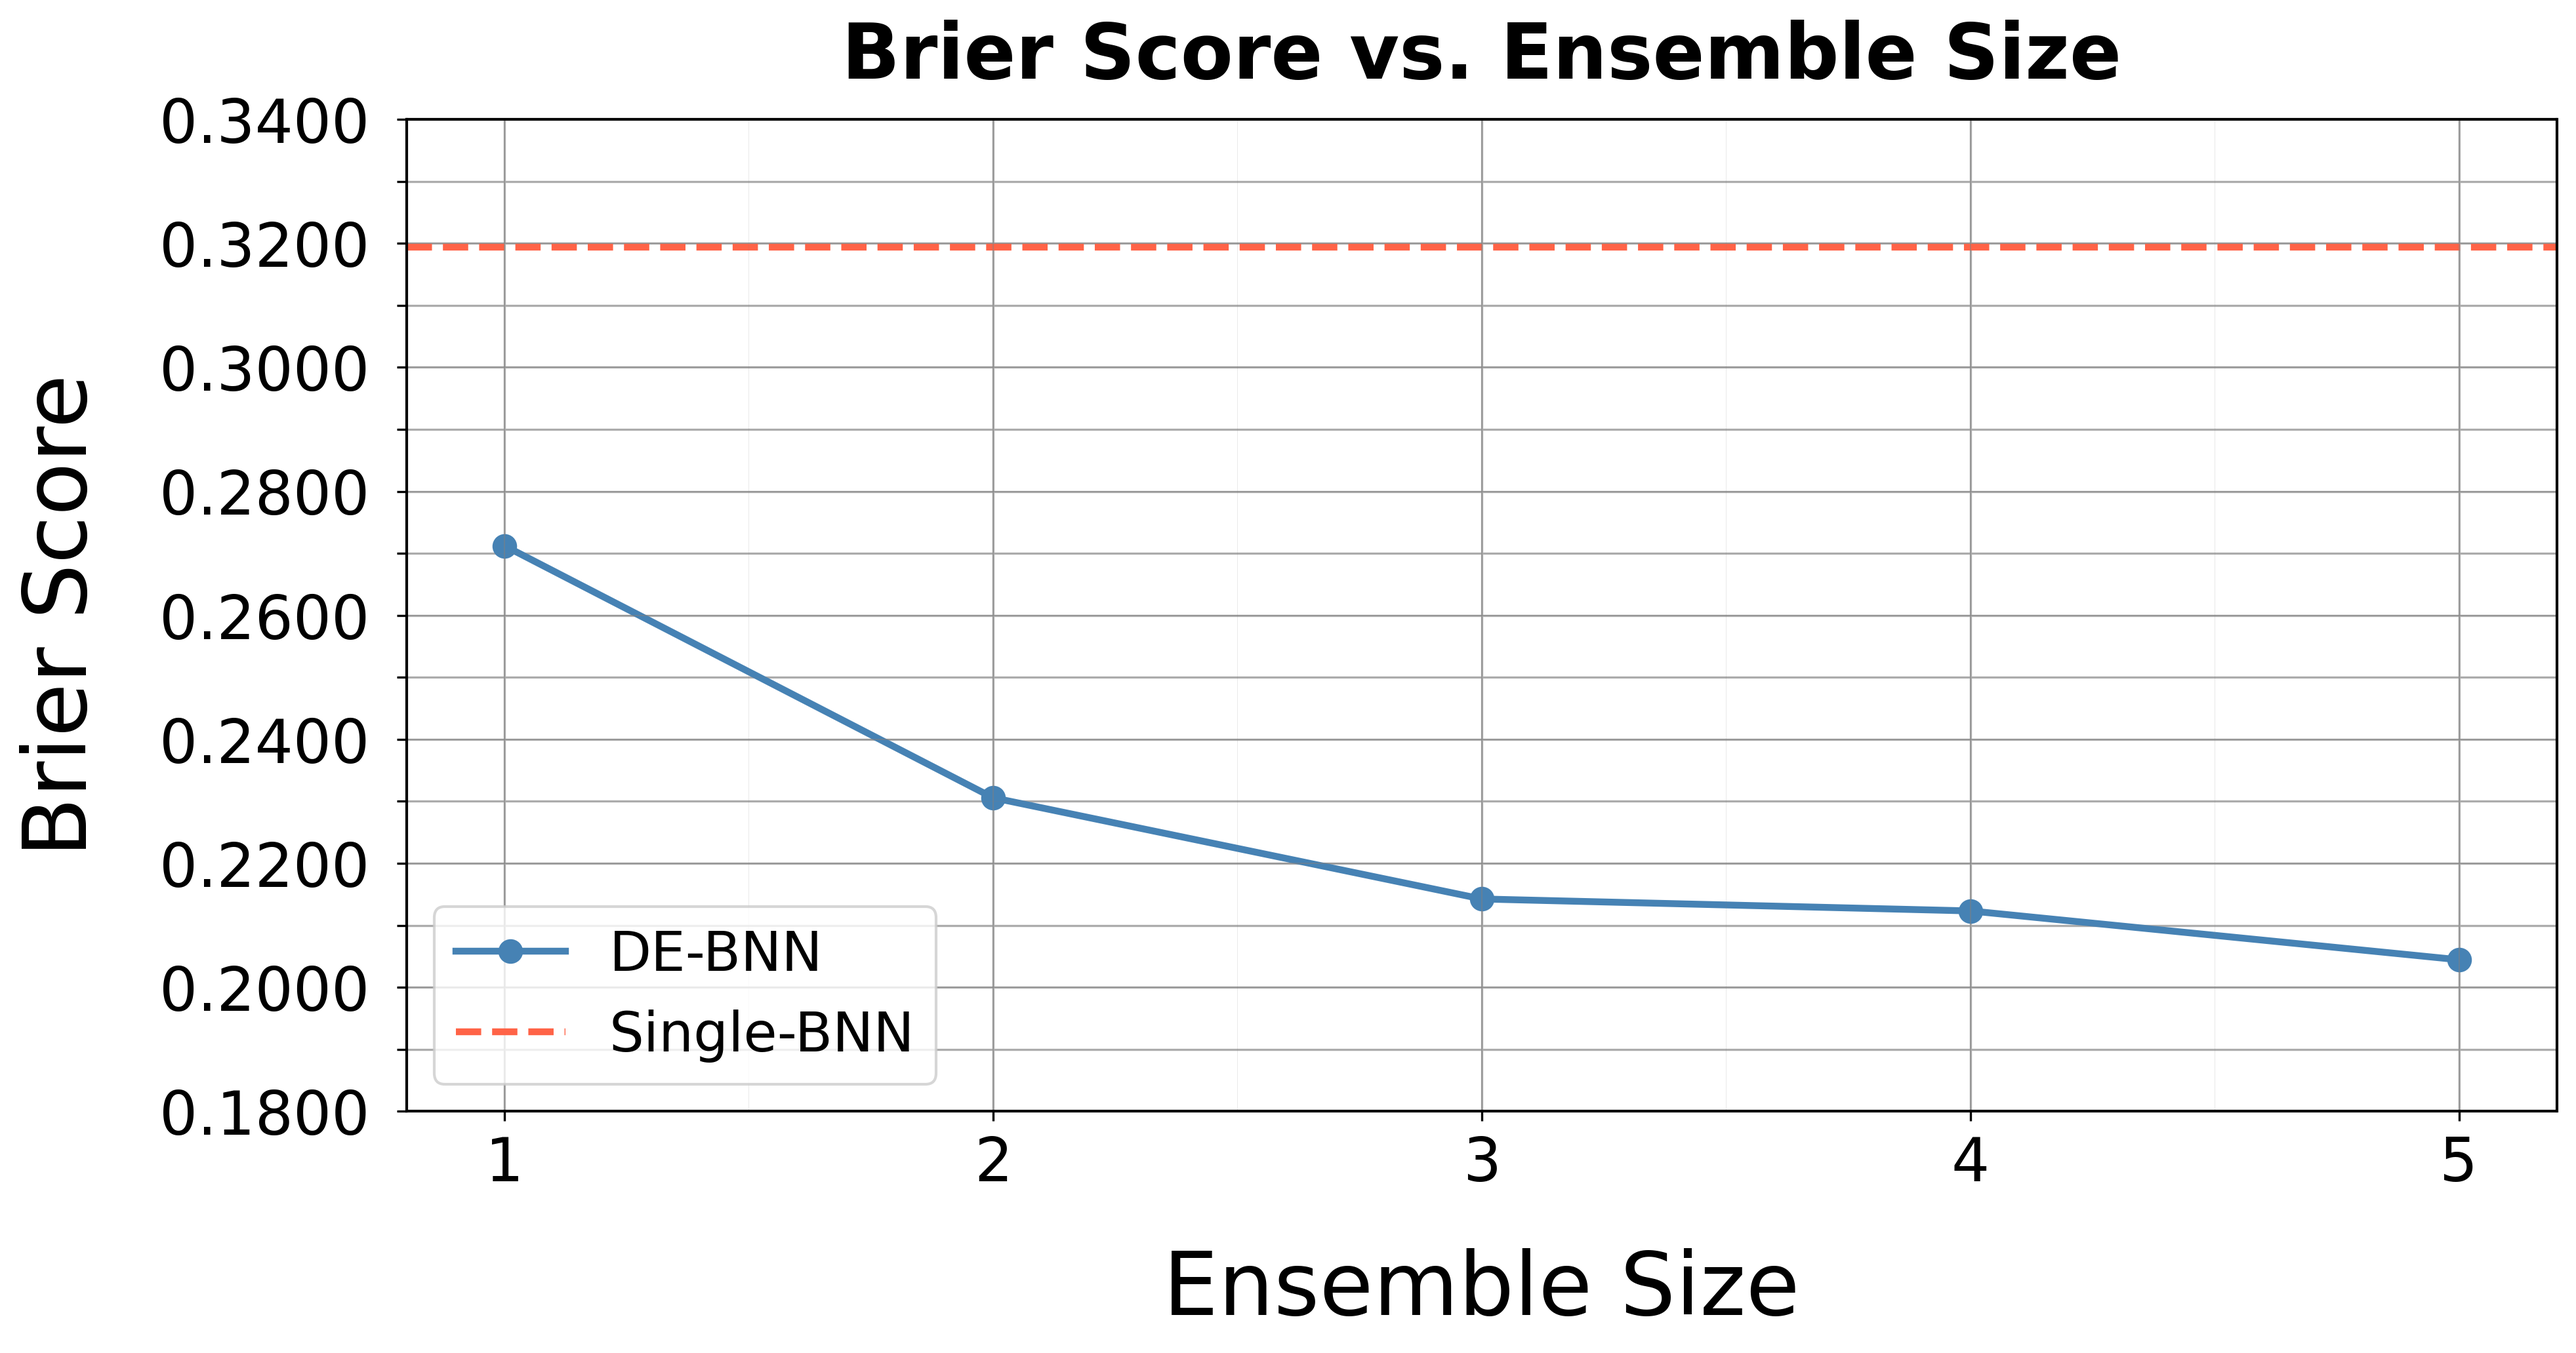
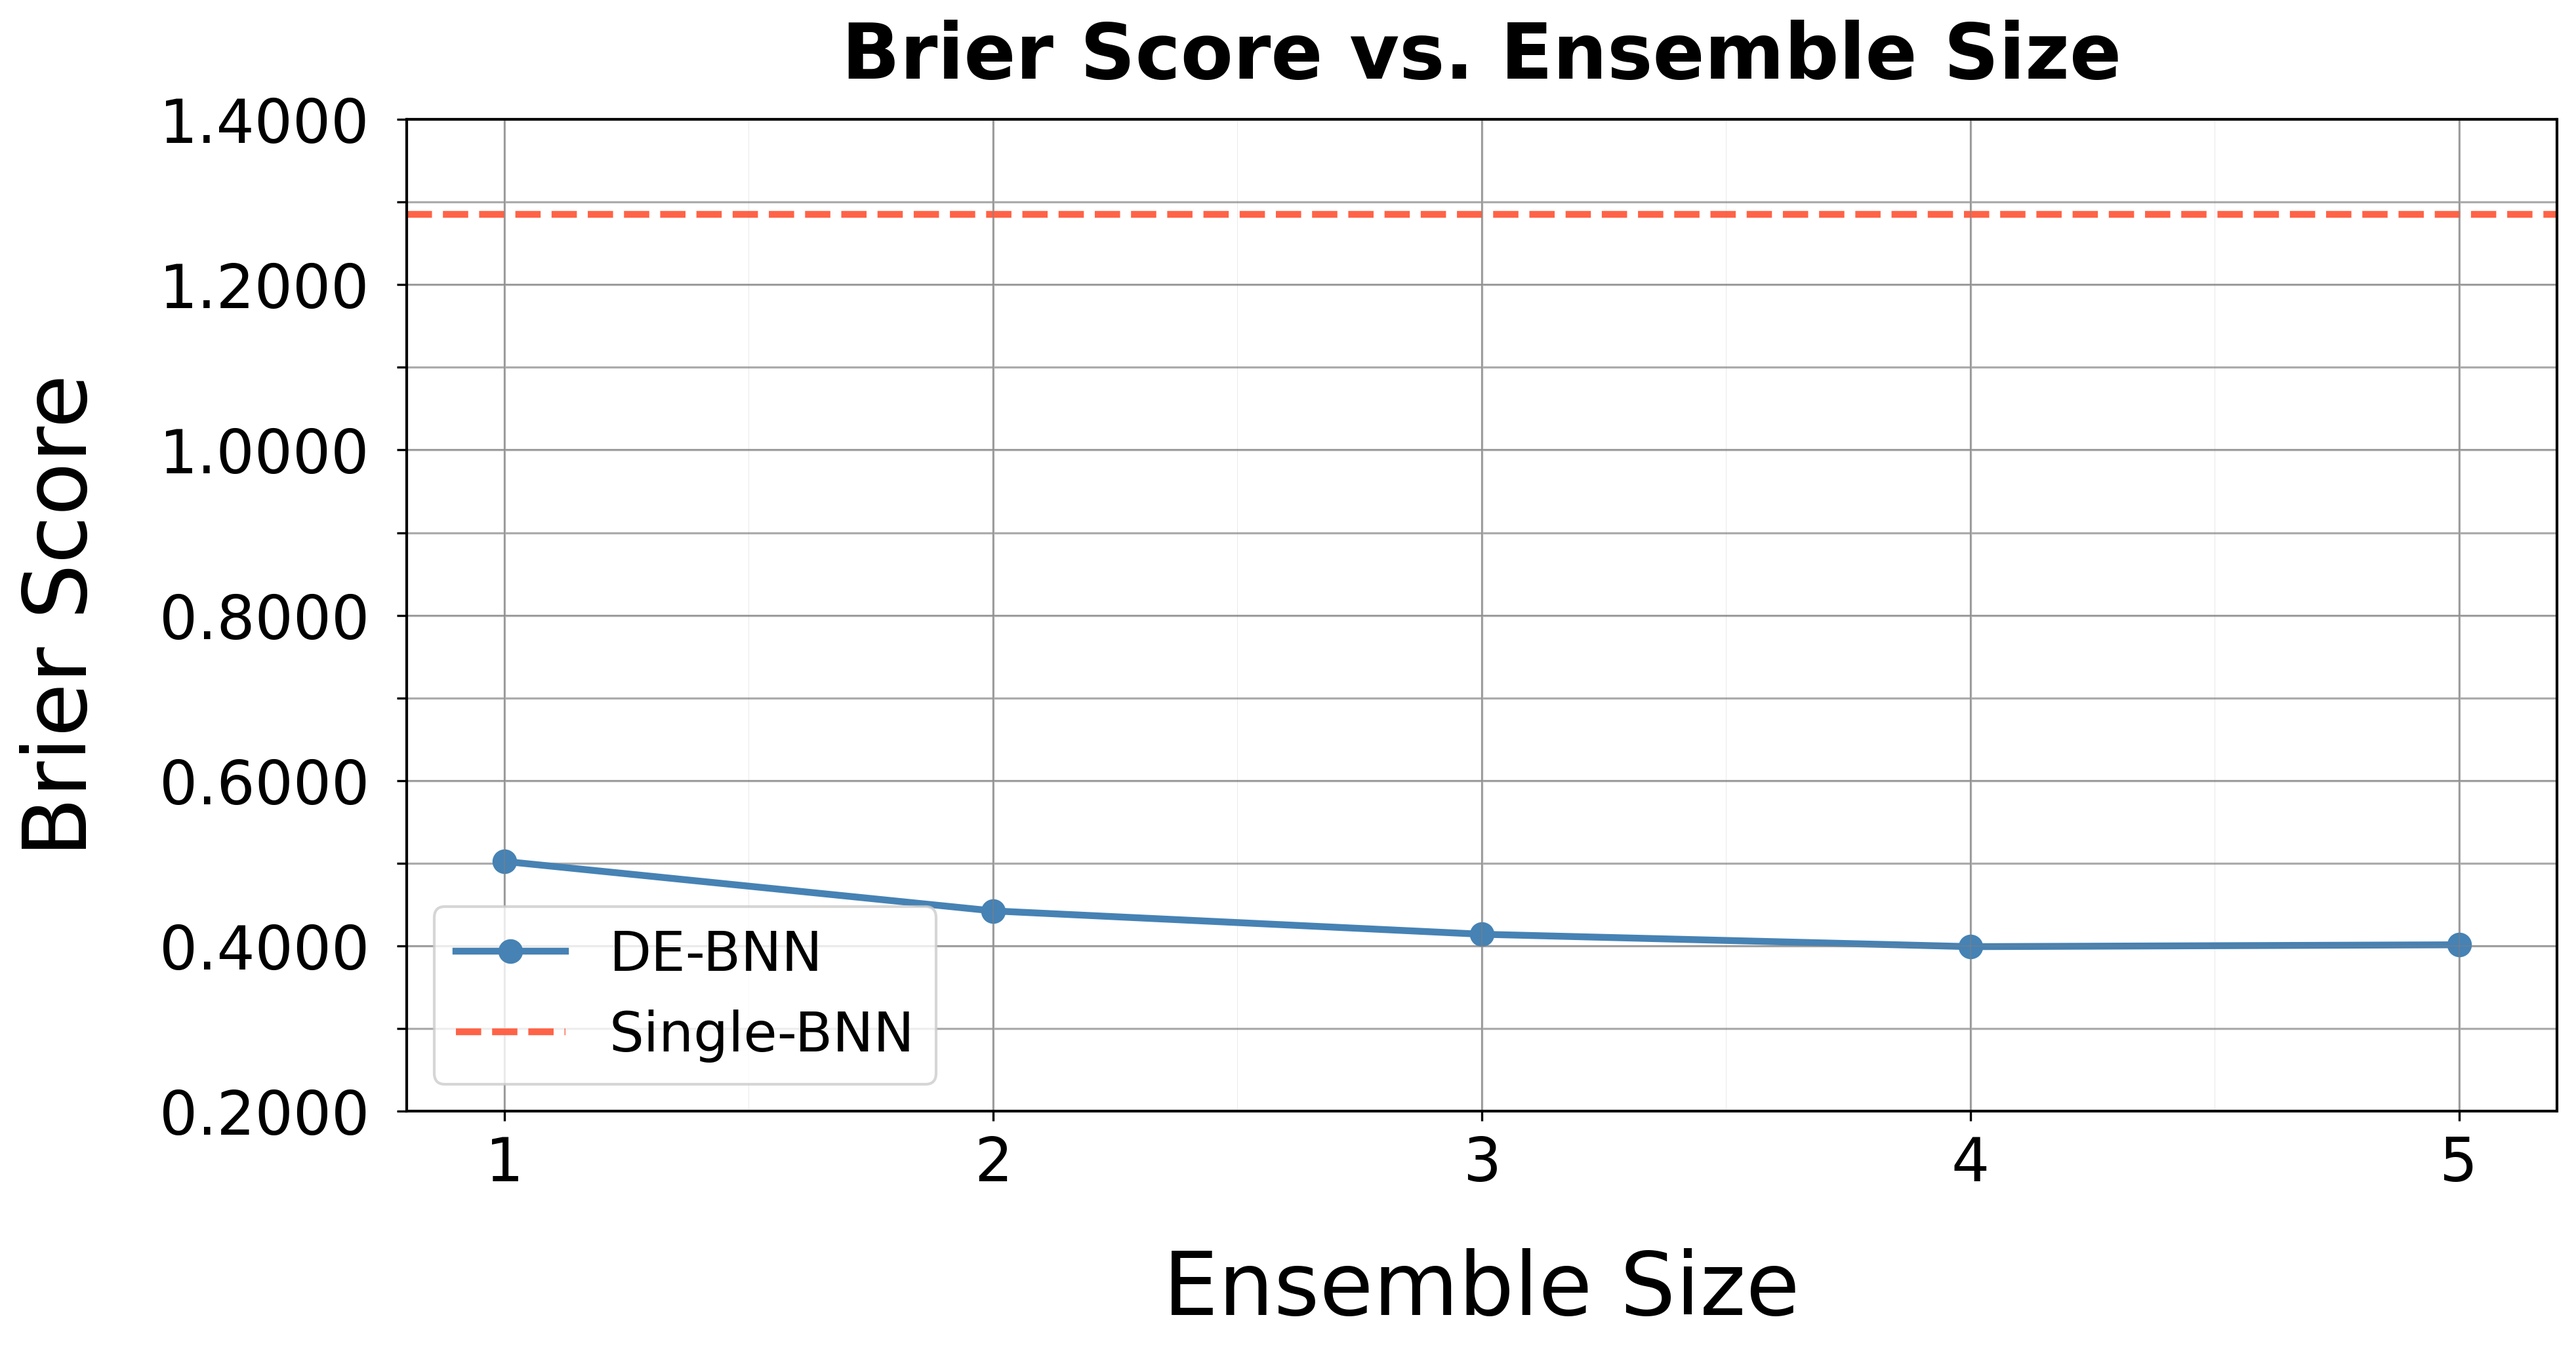
Corrupted Analysis corrected

diff --git a/Examples/Example_MNIST_Corrupted.py b/Examples/Example_MNIST_Corrupted.py
@@ -3,21 +3,11 @@ from tensorflow_datasets.image_classification import MNISTCorrupted
 import tensorflow_datasets as tfds
 from sklearn.model_selection import train_test_split
 import numpy as np
-
 from Model_Code.ConvolutionalBNN_Model import ConvolutionalBNN
 from Model_Code.Ensemble_helper import train_deep_ensemble, evaluate_model, ensemble_predict_proba
 from plots.Plots_Helper import plot_ensemble_metrics, save_plots
 import pandas as pd
 import tensorflow as tf
-
-seed = 42
-random.seed(seed)
-np.random.seed(seed)
-tf.random.set_seed(seed)
-
-# === Load impulse_noise corrupted MNIST ===
-builder = MNISTCorrupted(config="impulse_noise")
-builder.download_and_prepare()
 
 # ───────────────────────────────────────────────────────────────
 # Available configurations (corruption types) for MNIST-Corrupted:
@@ -44,77 +34,98 @@ builder.download_and_prepare()
 # 18. 'translate'             → moderate     (↓ 15–30%)
 # 19. 'scale'                 → moderate     (↓ 15–30%)
 
+seed = 42
+random.seed(seed)
+np.random.seed(seed)
+tf.random.set_seed(seed)
 
-ds = builder.as_dataset(split="test", as_supervised=True)
-X_all, y_all = zip(*[(x, y) for x, y in tfds.as_numpy(ds)])
-X_all = np.array(X_all) / 255.0
-y_all = np.array(y_all)
+# === Load clean MNIST for training and validation ===
+(x_train_full, y_train_full), (x_test_clean, y_test_clean) = tf.keras.datasets.mnist.load_data()
+x_train_full = x_train_full.astype("float32") / 255.0
+x_test_clean = x_test_clean.astype("float32") / 255.0
 
-# === Split into train/val/test (e.g., 60/20/20 split) ===
-x_train_full, x_test, y_train_full, y_test = train_test_split(X_all, y_all, test_size=0.2, random_state=seed)
-x_train, x_val, y_train, y_val = train_test_split(x_train_full, y_train_full, test_size=0.2, random_state=seed)
+# Add channel dimension if needed
+if x_train_full.shape[1:] == (28, 28):
+    x_train_full = x_train_full[..., np.newaxis]
+    x_test_clean = x_test_clean[..., np.newaxis]
+    input_shape = (28, 28, 1)
+else:
+    raise ValueError("Unexpected image shape for MNIST: {}".format(x_train_full.shape))
 
-input_shape  = (28, 28, 1)
-num_classes  = 10
+y_train_full = y_train_full.flatten()
+y_test_clean = y_test_clean.flatten()
 
-#%% Train DE-BNN
-ensemble = train_deep_ensemble(x_train, y_train, x_val, y_val, input_shape, num_classes, n_models=5, epochs=10)
+# Split clean MNIST into train and validation sets
+x_train, x_val, y_train, y_val = train_test_split(
+    x_train_full, y_train_full, test_size=0.2, random_state=seed
+)
+num_classes = len(np.unique(y_train_full))
 
-# 1. Instantiate your model
+# === Load impulse_noise corrupted MNIST for testing ===
+builder = MNISTCorrupted(config="impulse_noise")
+builder.download_and_prepare()
+corrupted_ds = builder.as_dataset(split="test", as_supervised=True)
+X_corrupted, y_corrupted = zip(*[(x, y) for x, y in tfds.as_numpy(corrupted_ds)])
+X_corrupted = np.array(X_corrupted).astype("float32") / 255.0
+y_corrupted = np.array(y_corrupted).flatten()
+if X_corrupted.shape[1:] == (28, 28):
+    X_corrupted = X_corrupted[..., np.newaxis]
+elif X_corrupted.shape[1:] != (28, 28, 1):
+    raise ValueError("Unexpected image shape for Corrupted MNIST: {}".format(X_corrupted.shape))
+
+#%% Train DE-BNN on clean MNIST
+ensemble = train_deep_ensemble(
+    x_train, y_train, x_val, y_val, input_shape, num_classes, n_models=5, epochs=10
+)
+
+#%% Train Single-BNN on clean MNIST
 single_bnn = ConvolutionalBNN(
     input_shape=input_shape,
     num_classes=num_classes,
-    len_x_train=len(x_train),     # or len(x_train_full) if you want to use the full train set length for KL
-    class_labels=None,            # or [0, 1, ..., 9] if you want explicit labels
+    len_x_train=len(x_train),
+    class_labels=None,
     seed=seed
 )
-
-# 2. Compile your model
 single_bnn.compile()
-
-# 3. Train the model
 single_bnn.fit(
     x_train,
     y_train,
     validation_data=(x_val, y_val),
-    epochs=50,         # or any desired number of epochs
-    batch_size=64,    # or any suitable batch size
+    epochs=50,
+    batch_size=64,
     verbose=1
 )
 
-#%% Evaluate both models
-print("\nEvaluating DE-BNN")
-y_proba_de = ensemble_predict_proba(ensemble, x_test)
-results_de = evaluate_model(y_test, y_proba_de)
+#%% Evaluate both models on corrupted MNIST
+print("\nEvaluating DE-BNN on Corrupted MNIST")
+y_proba_de = ensemble_predict_proba(ensemble, X_corrupted)
+results_de = evaluate_model(y_corrupted, y_proba_de)
 
-print("\nEvaluating Single-BNN")
-y_proba_single = single_bnn.predict_proba(x_test)
-results_single = evaluate_model(y_test, y_proba_single)
+print("\nEvaluating Single-BNN on Corrupted MNIST")
+y_proba_single = single_bnn.predict_proba(X_corrupted)
+results_single = evaluate_model(y_corrupted, y_proba_single)
 
 #%% Print comparison
 results_df = pd.DataFrame({
     "Single-BNN": results_single,
     "DE-BNN": results_de
 })
-print("\nComparison of Evaluation Metrics:")
+print("\nComparison of Evaluation Metrics on Corrupted MNIST:")
 print(results_df)
 
 # 1. Get predicted probabilities from each ensemble model
-probs_list = [model.predict_proba(x_test) for model in ensemble]
+probs_list = [model.predict_proba(X_corrupted) for model in ensemble]
 
 # 2. Evaluate for each ensemble size (1 to 5)
 results_per_size = []
-
 for k in range(1, len(ensemble) + 1):
-    probs_k = np.mean(probs_list[:k], axis=0)  # Average predictions of first k models
-    metrics = evaluate_model(y_test, probs_k, num_classes=10)
+    probs_k = np.mean(probs_list[:k], axis=0)
+    metrics = evaluate_model(y_corrupted, probs_k, num_classes=num_classes)
     metrics["Ensemble Size"] = k
     results_per_size.append(metrics)
 
-# 3. Convert to DataFrame for analysis or plotting
 df_ensemble_metrics = pd.DataFrame(results_per_size)
 print(df_ensemble_metrics)
 
-plots = plot_ensemble_metrics(df_ensemble_metrics, evaluate_model(y_test, y_proba_single, num_classes=10), mnist=True)
-
+plots = plot_ensemble_metrics(df_ensemble_metrics, evaluate_model(y_corrupted, y_proba_single, num_classes=num_classes), mnist=True)
 save_plots(plots, output_dir="plots/Saved_Plots/Plots_fair_comparison", file_suffix="Corrupted")
